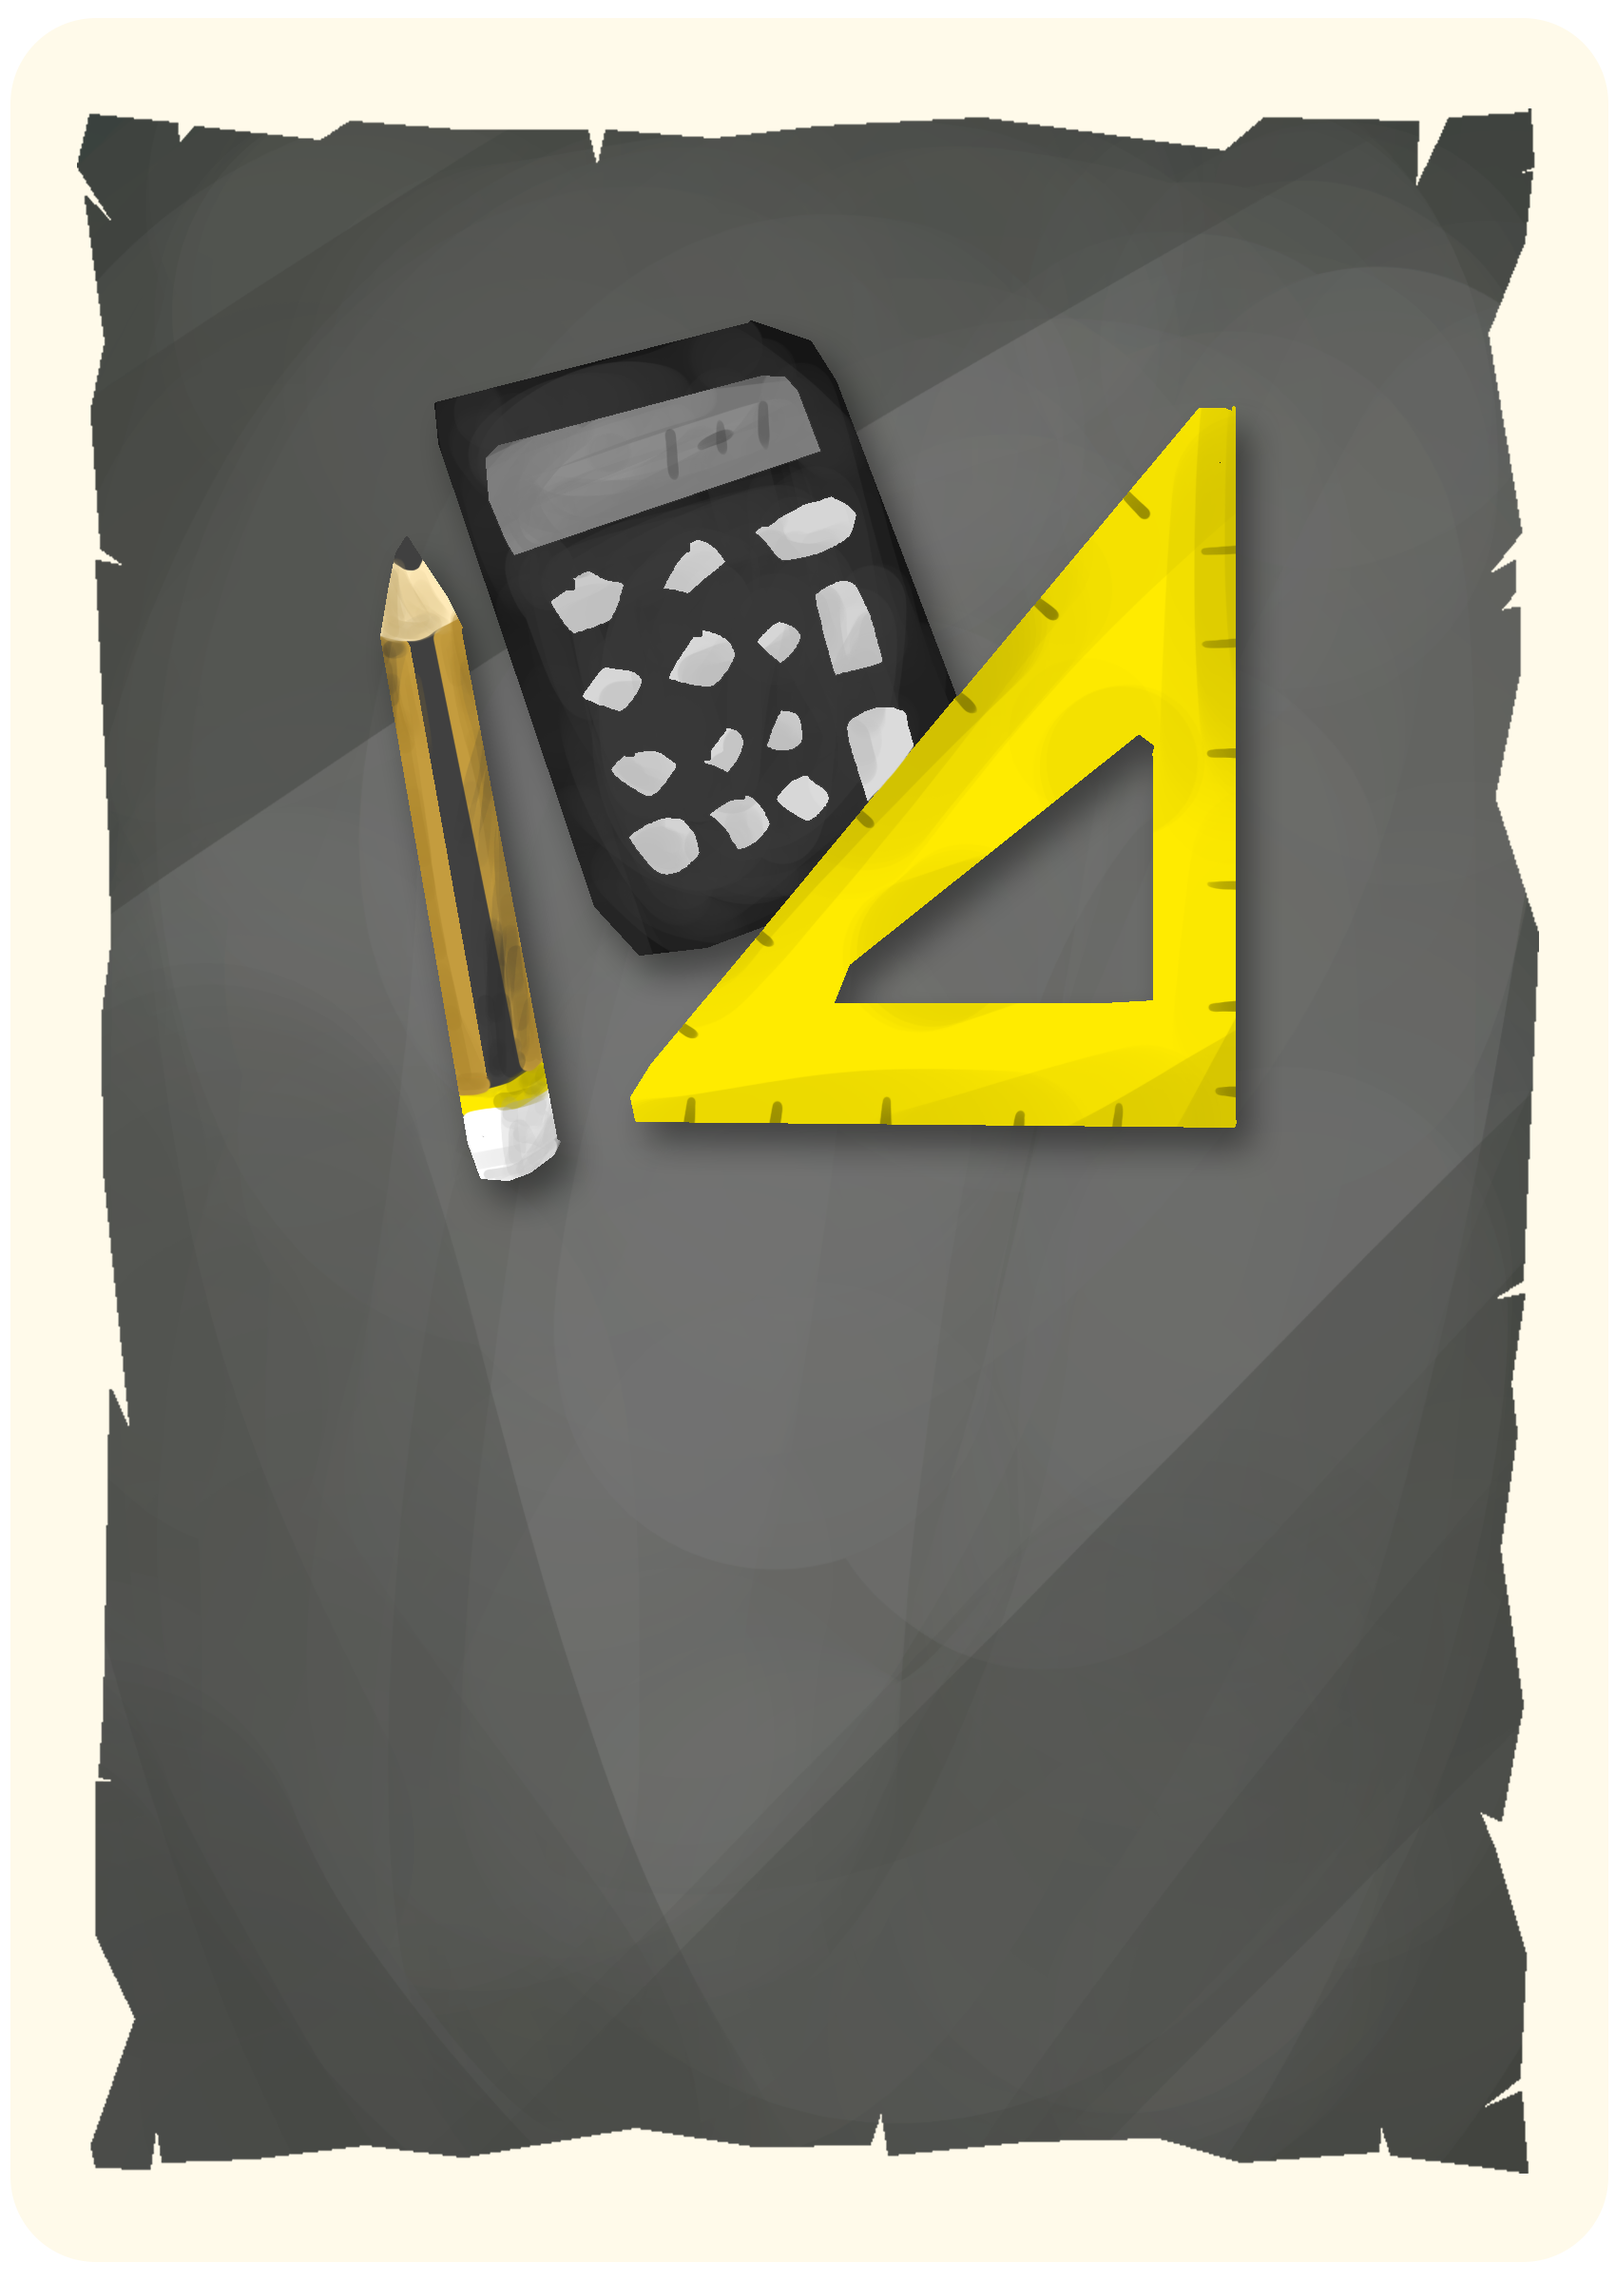
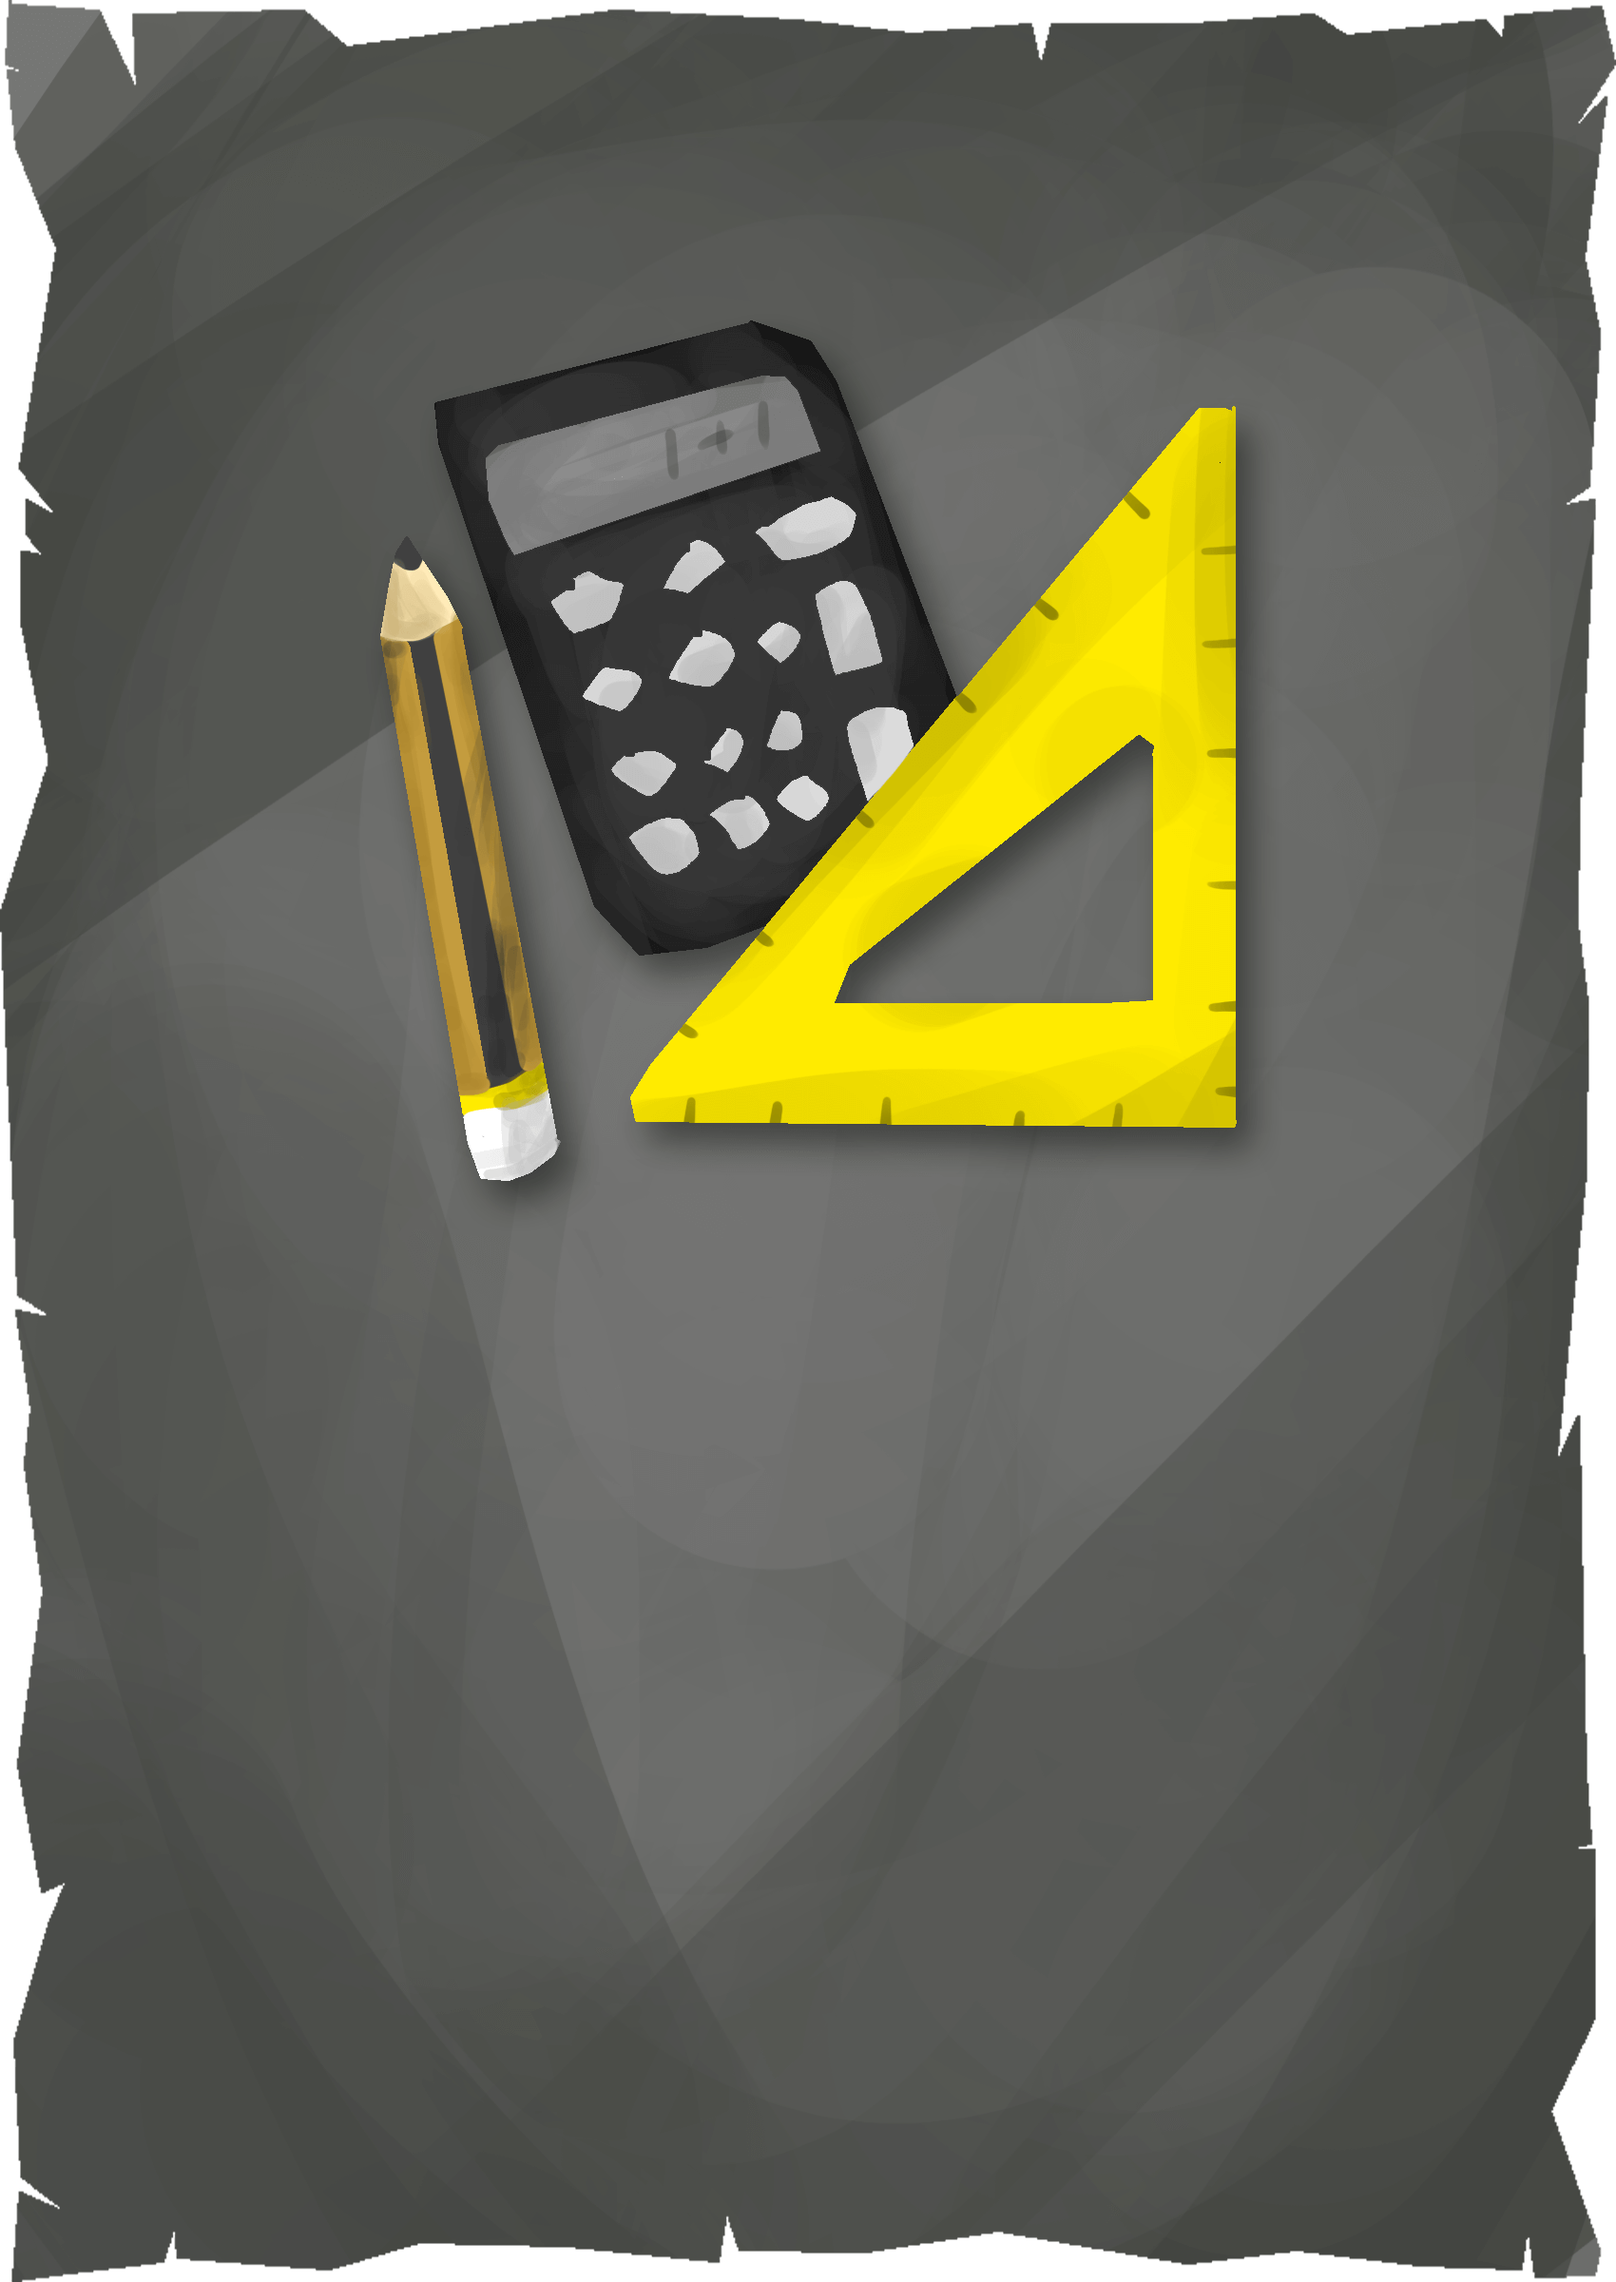
[Timetable2.0 => Dev]: fix Timetable and stuff (#15)
* recreate ship animation

* reduce size images

* fix islandDraft bug

* add lines & fix css

* fix css

Changed region(s): [[0.0, 0.0, 1.0, 1.0]]

diff --git a/components/TimeTable/Card.jsx b/components/TimeTable/Card.jsx
@@ -1,17 +1,54 @@
 import Image from "next/image";
-import islandDraft from "@/assets/images/islandDraft.png";
-import paper from "@/assets/images/Paper2.png";
+import { motion } from "framer-motion";
+import islandDraft1 from "@/assets/images/islandDraft1.png";
+import islandDraft2 from "@/assets/images/islandDraft2.png";
+import islandDraft3 from "@/assets/images/islandDraft3.png";
+import islandDraft4 from "@/assets/images/islandDraft4.png";
+import islandDraft5 from "@/assets/images/islandDraft5.png";
+import paperMobile from "@/assets/images/paper.png";
+import paperWeb from "@/assets/images/Paper2.png";
+import LineCard_h from "@/assets/images/LineCard_h.png";
+import LineCard_v from "@/assets/images/LineCard_v.png";
+
+const islandDraft = [
+  islandDraft1,
+  islandDraft2,
+  islandDraft3,
+  islandDraft4,
+  islandDraft5,
+];
 
 function Card({ data, selectedIsland }) {
   return (
-    <div className="relative h-fit md:h-[300px] 2xl:h-[360px] flex flex-col md:grid md:grid-cols-5 text-[#313131] rounded-[20px]  ">
+    <div className="relative h-fit md:h-[300px] 2xl:h-[360px] flex flex-col md:grid md:grid-cols-5 text-tundora-700 rounded-[20px]  ">
       <div className="absolute w-full h-[520px] xs:h-[400px] md:h-[350px] 2xl:h-[400px] z-0">
-        <Image src={paper} alt="paper" fill className="dropShadow" priority />
+        <Image
+          src={paperWeb}
+          alt="paper"
+          fill
+          className="dropShadow hidden md:block"
+          priority
+          sizes="(min-width: 0) 100vw"
+        />
+        <Image
+          src={paperMobile}
+          alt="paper"
+          fill
+          className="dropShadow block md:hidden"
+          priority
+          sizes="(min-width: 0) 100vw"
+        />
       </div>
-      <div className="mt-12 md:mb-12 w-[70%] mx-auto z-10 flex flex-col justify-end items-center md:row-auto md:col-span-2 ">
+      <motion.div
+        key={selectedIsland}
+        initial={{ opacity: 0 }}
+        animate={{ opacity: 1 }}
+        transition={{ duration: 1 }}
+        className="mt-12 md:mb-12 w-[70%] mx-auto z-10 flex flex-col justify-end items-center md:row-auto md:col-span-2 "
+      >
         <div className="relative w-[114px] md:w-[180px] 2xl:w-[270px] h-[86px] md:h-[135px] 2xl:h-[202px]">
           <Image
-            src={islandDraft}
+            src={islandDraft[selectedIsland]}
             alt="island"
             fill
             className="object-contain"
@@ -21,13 +58,41 @@ function Card({ data, selectedIsland }) {
         <p className="font-bold text-sm md:text-lg 2xl:text-2xl">
           {data[selectedIsland].title}
         </p>
-        <hr className="md:hidden mt-2 w-full border-b-[4px]  border-black border-opacity-[29%] rounded" />
+        {/* <hr className="md:hidden mt-2 w-full border-b-[4px]  border-black border-opacity-[29%] rounded" /> */}
+      </motion.div>
+      {/* line mobile*/}
+      <div className="w-[100%] h-[16px] mx-auto relative md:hidden">
+        <Image
+          src={LineCard_h}
+          alt="LineCard_h"
+          fill
+          className="object-contain"
+          sizes="(min-width: 0) 100vw"
+        />
       </div>
-      <div className="my-2 md:my-5 md:mt-12 2xl:mt-16 2xl:my-8 mx-auto md:mx-0 z-10 text-left font-normal text-sm md:text-lg 2xl:text-2xl px-4 md:row-auto md:col-span-3 md:border-l-[4px] rounded-sm border-black border-opacity-[29%]">
-        {data[selectedIsland].time.map((text, idx) => {
-          return <p key={idx}>{text}</p>;
-        })}
-      </div>
+      <motion.div
+        key={data[selectedIsland].title}
+        initial={{ opacity: 0 }}
+        animate={{ opacity: 1 }}
+        transition={{ duration: 1, delay: 0.6 }}
+        className="flex my-2 md:my-5 md:mt-12 2xl:mt-16 2xl:my-8 mx-auto md:mx-0 z-10 text-left font-normal text-sm md:text-lg 2xl:text-2xl md:row-auto md:col-span-3 rounded-sm"
+      >
+        {/* line */}
+        <div className="w-[16px] h-[120%] -mt-6 -ml-4 mr-4 relative hidden md:block">
+          <Image
+            src={LineCard_v}
+            alt="LineCard_h"
+            fill
+            className="object-cover"
+            sizes="(min-width: 0) 100vw"
+          />
+        </div>
+        <div>
+          {data[selectedIsland].time.map((text, idx) => {
+            return <p key={idx}>{text}</p>;
+          })}
+        </div>
+      </motion.div>
     </div>
   );
 }

diff --git a/components/TimeTable/Island.jsx b/components/TimeTable/Island.jsx
@@ -1,4 +1,7 @@
 import Image from "next/image";
+import { useEffect, useRef, useState } from "react";
+import { motion } from "framer-motion";
+
 import island1 from "@/assets/images/island1.png";
 import island2 from "@/assets/images/island2.png";
 import island3 from "@/assets/images/island3.png";
@@ -7,27 +10,54 @@ import island5 from "@/assets/images/island5.png";
 import islandShip from "@/assets/images/islandShip.png";
 
 function Island({ selectedIsland, setSelectedIsland, data }) {
-  const shipAnimation = `${
-    selectedIsland === 4
-      ? "w-[102%]"
-      : selectedIsland === 3
-      ? "w-[82%]"
-      : selectedIsland === 2
-      ? "w-[60%]"
-      : selectedIsland === 1
-      ? "w-[38%]"
-      : "w-[16%]"
-  }`;
+  const ref = useRef(null);
+  const [width, setWidth] = useState(0);
+  const [per, setPer] = useState(0);
+  let calc = Math.round((width * per) / 100);
+
+  useEffect(() => {
+    setWidth(ref.current.clientWidth);
+    function handleWindowResize() {
+      setWidth(ref.current.clientWidth);
+    }
+
+    switch (selectedIsland) {
+      case 0:
+        setPer(0);
+        break;
+      case 1:
+        setPer(22);
+        break;
+      case 2:
+        setPer(45);
+        break;
+      case 3:
+        setPer(67);
+        break;
+      case 4:
+        setPer(90);
+        break;
+    }
+
+    window.addEventListener("resize", handleWindowResize);
+    return () => {
+      window.removeEventListener("resize", handleWindowResize);
+    };
+  }, [selectedIsland, width]);
 
   return (
     <>
       {/* tablet , pc */}
       <div className="hidden sm:block">
-        <div className="relative flex justify-between items-center w-full mb-7 text-black">
+        <div
+          ref={ref}
+          className="relative flex justify-between items-center w-full mb-7 text-black"
+        >
           {/* Island Ship */}
-          <div
-            key={selectedIsland}
-            className={`absolute -mt-8 h-fit flex ${shipAnimation}`}
+          <motion.div
+            animate={{ x: calc }}
+            transition={{ duration: 1 }}
+            className={`absolute z-30 -mt-8 ml-[10%]`}
           >
             <div
               className={`relative moveShip w-[28px] lg:w-[42px] h-[28px] lg:h-[42px]`}
@@ -37,9 +67,10 @@ function Island({ selectedIsland, setSelectedIsland, data }) {
                 alt="Island Ship"
                 fill
                 className="object-contain"
+                sizes="(min-width: 0) 100vw"
               />
             </div>
-          </div>
+          </motion.div>
           {/* Island */}
           <div>
             <div

diff --git a/components/TimeTable/Timetable.jsx b/components/TimeTable/Timetable.jsx
@@ -1,12 +1,4 @@
-import Image from "next/image";
-import { useRef, useEffect, useState } from "react";
-import island1 from "@/assets/images/island1.png";
-import island2 from "@/assets/images/island2.png";
-import island3 from "@/assets/images/island3.png";
-import island4 from "@/assets/images/island4.png";
-import island5 from "@/assets/images/island5.png";
-import islandDraft from "@/assets/images/islandDraft.png";
-import islandShip from "@/assets/images/islandShip.png";
+import { useState } from "react";
 import Card from "./Card";
 import Island from "./Island";
 
@@ -70,8 +62,8 @@ const data = [
       "09.15 - 09.40 สันทนาการ",
       "09.40 - 09.10 เบรกทานอาหารว่าง ",
       "09.50 - 12.00 กิจกรรมเชิงวิชาการ",
-      "12.00 - 13.20 เบรกกลางวัน + สัน",
-      "13.20 - 16.00 ทำโปรเจก+พรีเซ็นต์",
+      "12.00 - 13.20 เบรกกลางวัน + สันทนาการ",
+      "13.20 - 16.00 ทำโปรเจก + พรีเซ็นต์",
       "16.00 - 16.30 สันทนาการ",
       "16.30 - 17.00 ประกาศผล + ปิดงาน",
     ],
@@ -79,30 +71,14 @@ const data = [
 ];
 
 function Timetable() {
-  // const ref1 = useRef();
-  // const [x, setX] = useState();
-  // const getPosition = () => {
-  //   const x = ref1.current.offsetLeft;
-  //   setX(x);
-  // };
-  // useEffect(() => {
-  //   getPosition();
-  //   window.addEventListener("resize", getPosition);
-  //   console.log(x);
-  // }, []);
-
   const [selectedIsland, setSelectedIsland] = useState(0);
 
   return (
     <div
       id="timetable"
-      className="max-w-[1200px] pt-52 md:pt-36 2xl:pt-32 mx-8 md:mx-20 2xl:mx-auto pb-64 md:pb-32 2xl:pb-56 text-center text-[#F2F2F2] "
+      className="max-w-[1200px] pt-32 md:pt-36 2xl:pt-56 mx-8 md:mx-20 2xl:mx-auto pb-64 md:pb-32 2xl:pb-56 text-center text-[#F2F2F2] "
     >
-      {/* <div
-      id="timetable"
-      className="flex flex-col items-center justify-center max-w-[1200px] pt-52 md:pt-36 2xl:pt-32 mx-8 md:mx-20 2xl:mx-auto pb-64 md:pb-32 2xl:pb-56 text-center text-[#F2F2F2] "
-    > */}
-      <h2 className="topic mb-7 md:mb-14 2xl:mb-24">ตารางเวลา</h2>
+      <h2 className="topic mb-7 md:mb-14 2xl:mb-20">ตารางเวลา</h2>
       <div className="max-w-[1200px] w-full">
         <Island
           selectedIsland={selectedIsland}

diff --git a/components/Banner/Banner.jsx b/components/Banner/Banner.jsx
@@ -51,6 +51,8 @@ const cloud4Varaints = {
 
 function Banner() {
   const countDownDate = "2023-02-13";
+  const currentDate = new Date().getDate();
+  const currentMonth = new Date().getMonth() + 1;
   // For avoid React Hydration bug.
   const CountdownTimer = dynamic(() => import("./CountdownTimer"), {
     ssr: false,
@@ -124,10 +126,12 @@ function Banner() {
             />
           </motion.div>
           <p className="text-xl 2xl:text-3xl font-medium text-center">
-            นับถอยหลังเปิดรับลูกเรือ
+            {currentDate >= 13 && currentMonth >= 2
+              ? "นับถอยหลังปิดรับลูกเรือ"
+              : "นับถอยหลังเปิดรับลูกเรือ"}
           </p>
           <CountdownTimer targetDate={countDownDate} />
-          <button className="text-3xl 2xl:text-5xl font-normal text-white hover:text-black border-white border-[5px] md:border-[3px] 2xl:border-[5px] hover:border-transparent hover:bg-white rounded-[10px]  py-2 px-4 w-fit">
+          <button className="z-50 text-3xl 2xl:text-5xl font-normal text-white border-white border-[5px] md:border-[3px] 2xl:border-[5px] cursor-pointer hover:border-transparent hover:bg-white hover:text-jungle-green-500 rounded-[10px]  py-2 px-4 w-fit">
             เข้าร่วม
           </button>
         </div>

diff --git a/pages/_app.js b/pages/_app.js
@@ -1,3 +1,4 @@
+import { Analytics } from "@vercel/analytics/react";
 import localFont from "@next/font/local";
 import Layout from "@/components/Layout/Layout";
 import "@/styles/globals.css";
@@ -38,6 +39,7 @@ export default function App({ Component, pageProps }) {
       <main className={`${sukhumvitSet.variable} font-primary`}>
         <Layout>
           <Component {...pageProps} />
+          {/* <Analytics /> */}
         </Layout>
       </main>
       <style jsx global>

diff --git a/styles/globals.css b/styles/globals.css
@@ -31,7 +31,7 @@ a {
     @apply absolute hidden md:block;
   }
   .topic {
-    @apply text-3xl md:text-4xl 2xl:text-8xl font-bold;
+    @apply text-3xl md:text-4xl xl:text-6xl 2xl:text-7xl font-bold;
   }
   .island {
     @apply relative w-[75px] md:w-[85px] 2xl:w-[150px] h-[75px] md:h-[85px] 2xl:h-[150px] cursor-pointer hover:scale-125;

diff --git a/components/Schedule/Schedule.jsx b/components/Schedule/Schedule.jsx
@@ -29,8 +29,8 @@ const childVariants = {
     opacity: 1,
     scale: 1,
     transition: {
-      duration: 0.5
-    }
+      duration: 0.5,
+    },
   },
 };
 
